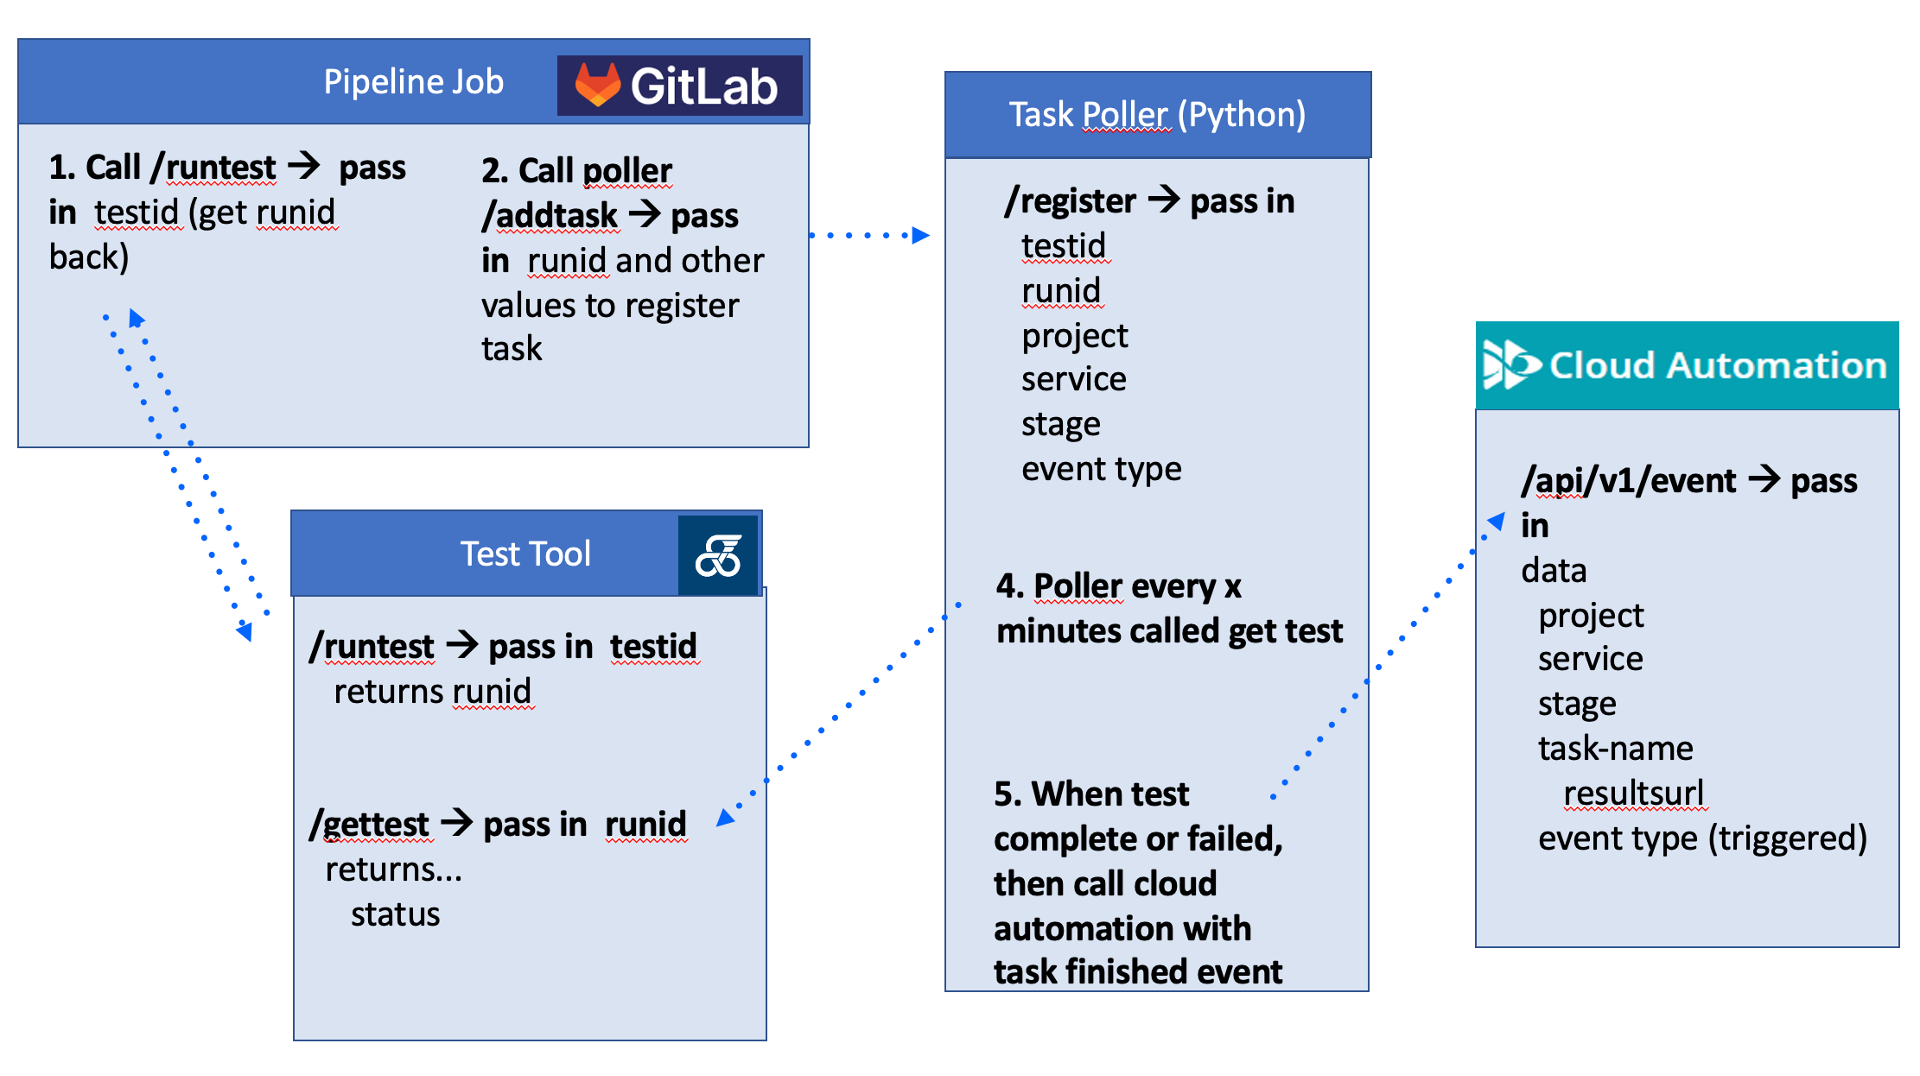
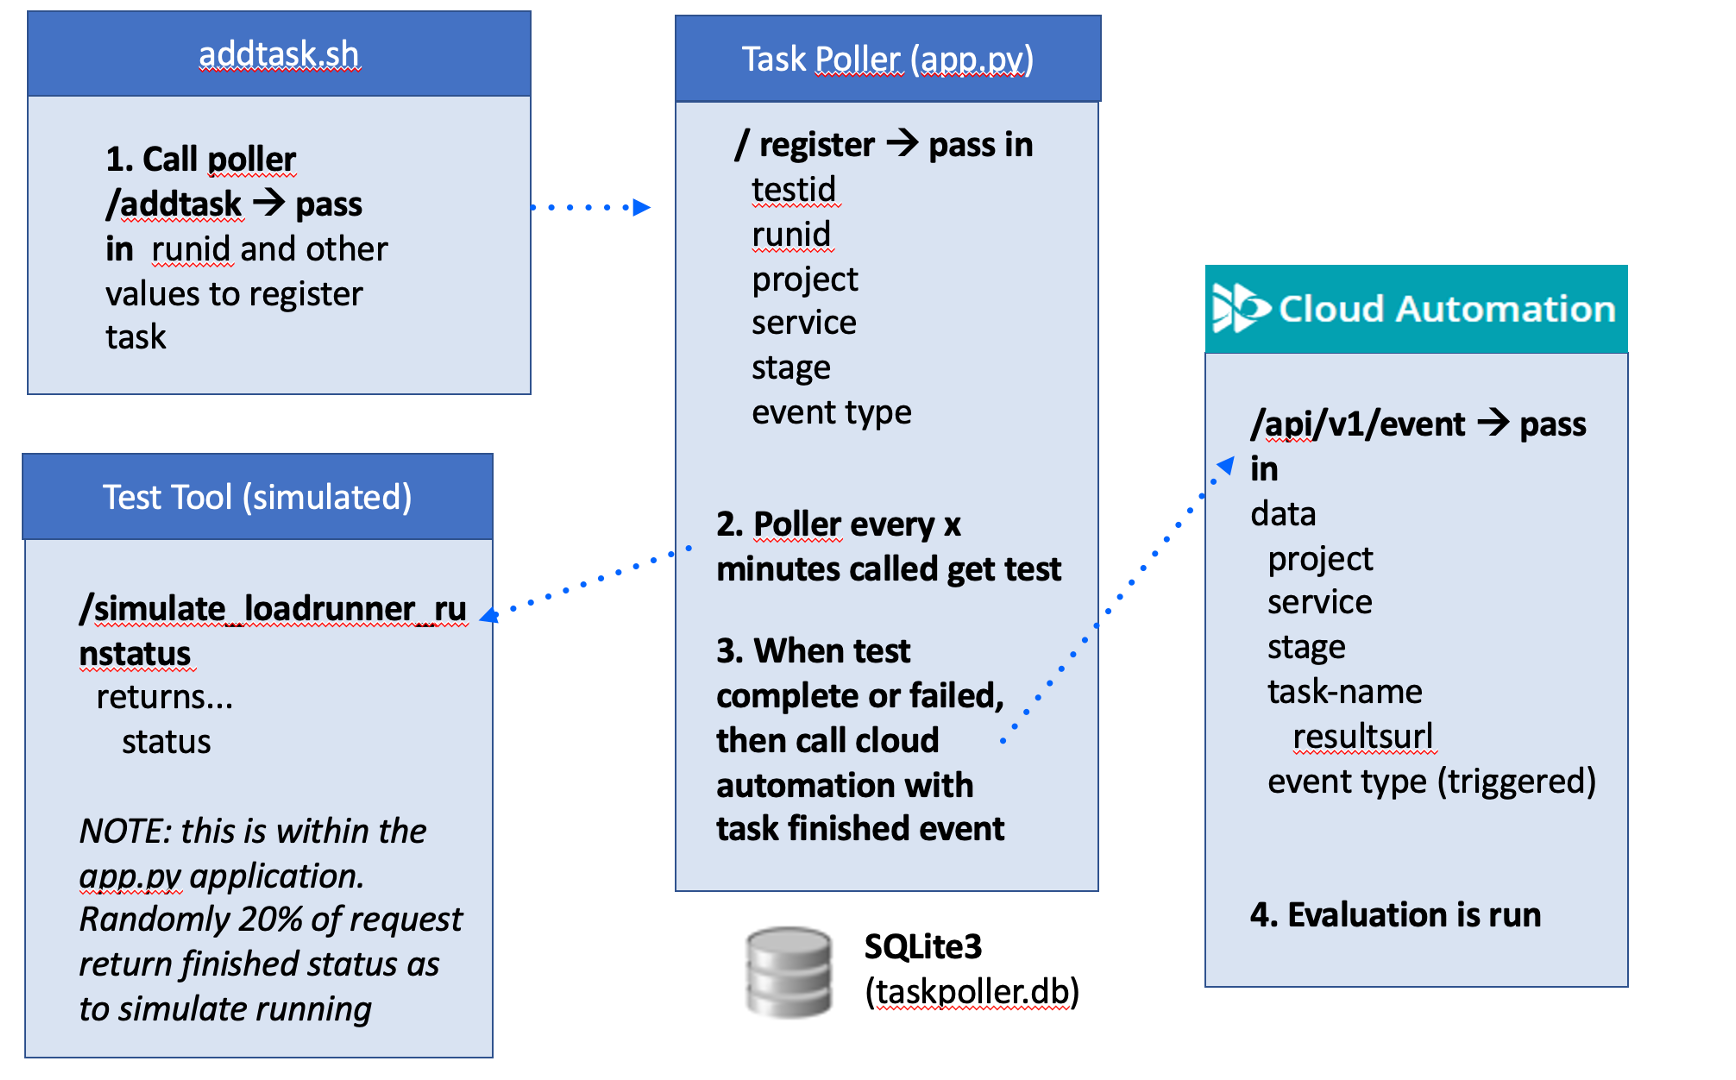
update pictures

diff --git a/README.md b/README.md
@@ -4,6 +4,16 @@ Proof of concept task poller for the use case of longer running tasks, like a mu
 
 This is one option to not have a pipeline tool or Cloud Automation sequence wait for several hours for the a test to complete.  And this is a workaround to tools that don't have a way to return status automatically to external tools such as an outbound webhook.
 
+# Example 
+
+Below is one use case
+
+<img src="images/flow.png" width="500"/>
+
+# Processing Logic
+
+Below is the logic currently implemented in this POC.
+
 <img src="images/call-flow.png" width="500"/>
 
 # Usage
